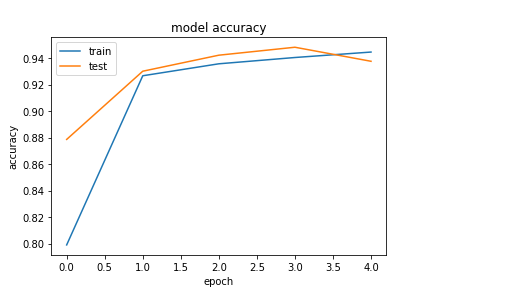
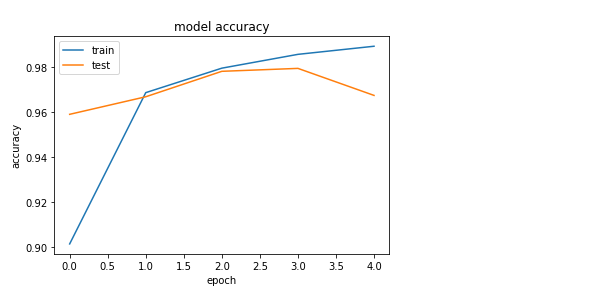
committing new changes

Changed region(s): [[0.0, 0.0621, 0.7485, 0.9931], [0.499, 0.2483, 0.5926, 0.3103], [0.1248, 0.4345, 0.1559, 0.4966]]

diff --git a/ICP9/Source_Code/imageclassification.py b/ICP9/Source_Code/imageclassification.py
@@ -20,9 +20,10 @@ test_data = test_images.reshape(test_images.shape[0],dimData)
 #convert data to float and scale values between 0 and 1
 train_data = train_data.astype('float')
 test_data = test_data.astype('float')
+
 #scale data
-'''train_data /=255.0
-test_data /=255.0'''
+train_data /=255.0
+test_data /=255.0
 #change the labels frominteger to one-hot encoding
 train_labels_one_hot = to_categorical(train_labels)
 test_labels_one_hot = to_categorical(test_labels)
